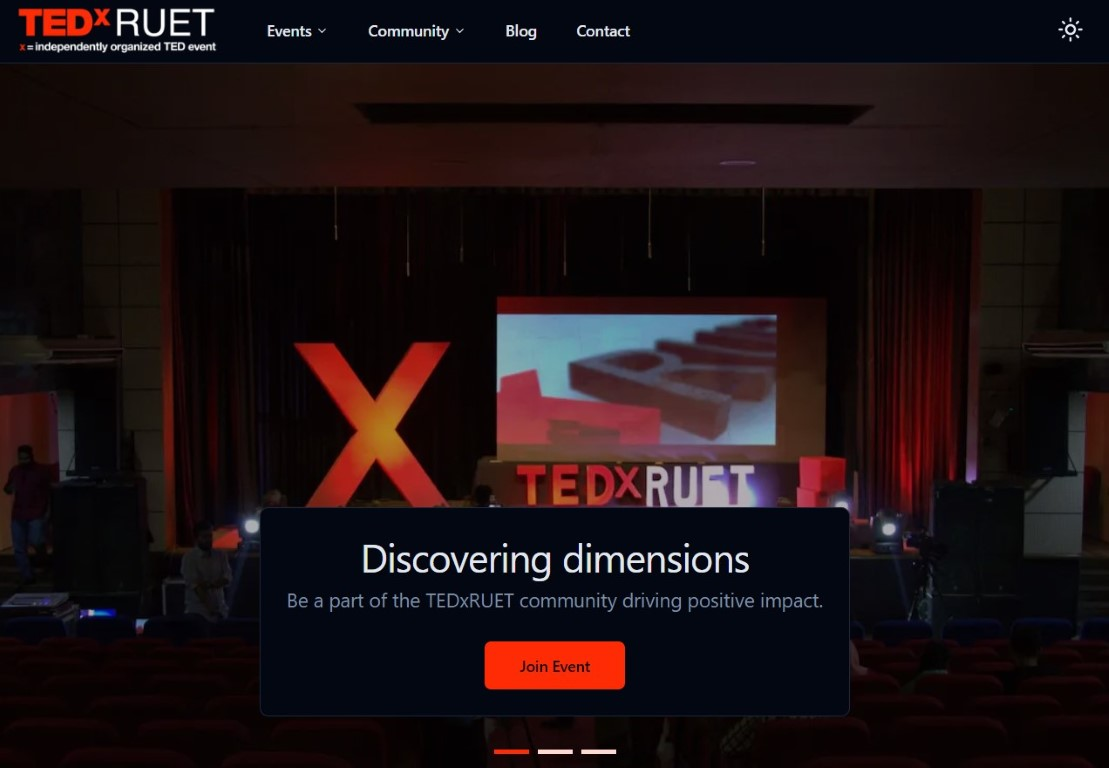
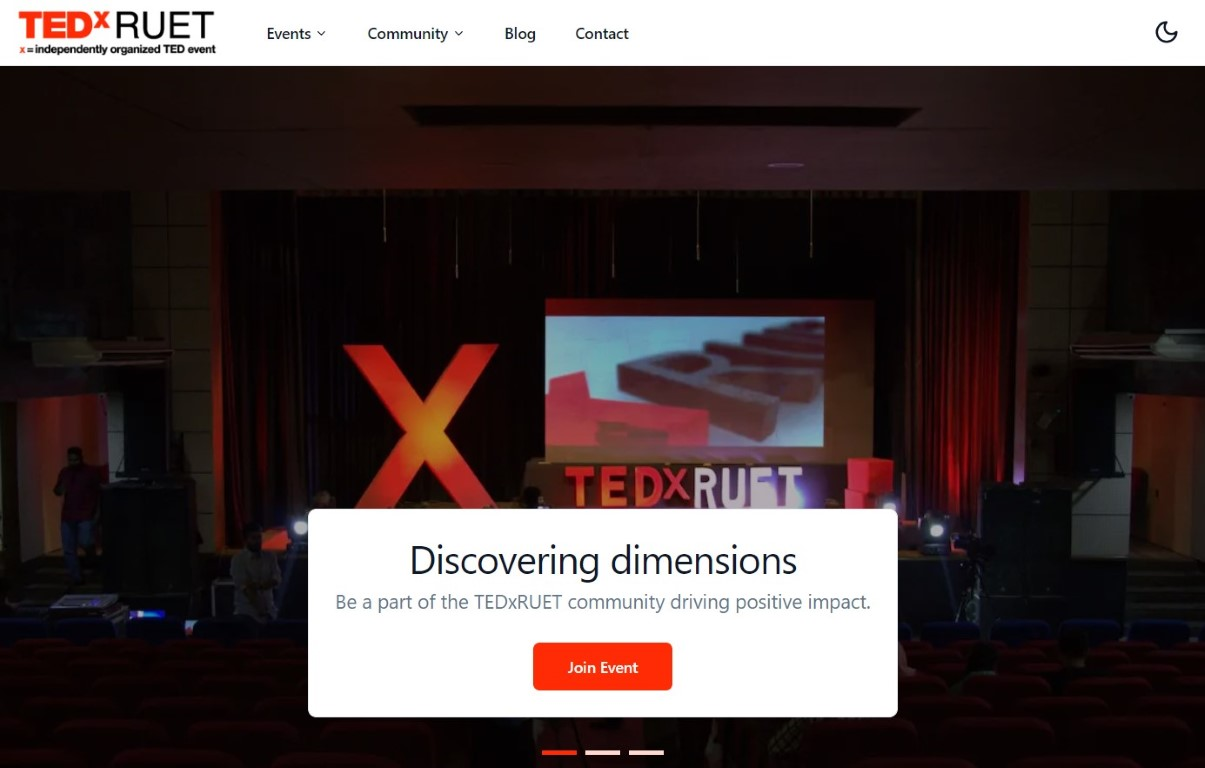
footer

diff --git a/src/components/ThemeToggle.tsx b/src/components/ThemeToggle.tsx
@@ -5,7 +5,7 @@ import { cn } from "@/lib/utils";
 
 type Theme = "light" | "dark" | "system";
 
-const DropdownMenu = () => {
+const ThemeToggle = () => {
   const [isOpen, setIsOpen] = useState(false);
   const ref = createRef<HTMLDivElement>();
 
@@ -68,8 +68,9 @@ const DropdownMenu = () => {
           type="button"
           className={cn(
             buttonVariants({
-              variant: isOpen ? "secondary" : "ghost",
+              variant: "outline",
               size: "icon",
+              class: "items-center gap-2",
             }),
           )}
           onClick={toggleDropdown}
@@ -78,7 +79,7 @@ const DropdownMenu = () => {
         </button>
       </div>
       {isOpen && (
-        <div className="absolute mt-1 right-0 z-10 w-32 rounded-lg shadow bg-background border">
+        <div className="absolute mt-1 right-0 bottom-10 z-10 w-32 rounded-lg shadow bg-background border">
           <ul
             className="p-1"
             role="menu"
@@ -99,9 +100,9 @@ const DropdownMenu = () => {
                 >
                   {
                     {
-                      light: <SunIcon className="w-4 h-4 mr-1" />,
-                      dark: <MoonIcon className="w-4 h-4 mr-1" />,
-                      system: <SystemIcon className="w-4 h-4 mr-1" />,
+                      light: <SunIcon className="mr-1" />,
+                      dark: <MoonIcon className="mr-1" />,
+                      system: <SystemIcon className="mr-1" />,
                     }[option.id as Theme]
                   }{" "}
                   {option.label}
@@ -115,14 +116,14 @@ const DropdownMenu = () => {
   );
 };
 
-export default DropdownMenu;
+export default ThemeToggle;
 
 const SunIcon = ({ className }: { className?: string }) => (
   <svg
     viewBox="0 0 15 15"
     fill="none"
     xmlns="http://www.w3.org/2000/svg"
-    className={cn("w-5 h-5", className)}
+    className={cn("w-4 h-4", className)}
   >
     <path
       d="M7.5 0C7.77614 0 8 0.223858 8 0.5V2.5C8 2.77614 7.77614 3 7.5 3C7.22386 3 7 2.77614 7 2.5V0.5C7 0.223858 7.22386 0 7.5 0ZM2.1967 2.1967C2.39196 2.00144 2.70854 2.00144 2.90381 2.1967L4.31802 3.61091C4.51328 3.80617 4.51328 4.12276 4.31802 4.31802C4.12276 4.51328 3.80617 4.51328 3.61091 4.31802L2.1967 2.90381C2.00144 2.70854 2.00144 2.39196 2.1967 2.1967ZM0.5 7C0.223858 7 0 7.22386 0 7.5C0 7.77614 0.223858 8 0.5 8H2.5C2.77614 8 3 7.77614 3 7.5C3 7.22386 2.77614 7 2.5 7H0.5ZM2.1967 12.8033C2.00144 12.608 2.00144 12.2915 2.1967 12.0962L3.61091 10.682C3.80617 10.4867 4.12276 10.4867 4.31802 10.682C4.51328 10.8772 4.51328 11.1938 4.31802 11.3891L2.90381 12.8033C2.70854 12.9986 2.39196 12.9986 2.1967 12.8033ZM12.5 7C12.2239 7 12 7.22386 12 7.5C12 7.77614 12.2239 8 12.5 8H14.5C14.7761 8 15 7.77614 15 7.5C15 7.22386 14.7761 7 14.5 7H12.5ZM10.682 4.31802C10.4867 4.12276 10.4867 3.80617 10.682 3.61091L12.0962 2.1967C12.2915 2.00144 12.608 2.00144 12.8033 2.1967C12.9986 2.39196 12.9986 2.70854 12.8033 2.90381L11.3891 4.31802C11.1938 4.51328 10.8772 4.51328 10.682 4.31802ZM8 12.5C8 12.2239 7.77614 12 7.5 12C7.22386 12 7 12.2239 7 12.5V14.5C7 14.7761 7.22386 15 7.5 15C7.77614 15 8 14.7761 8 14.5V12.5ZM10.682 10.682C10.8772 10.4867 11.1938 10.4867 11.3891 10.682L12.8033 12.0962C12.9986 12.2915 12.9986 12.608 12.8033 12.8033C12.608 12.9986 12.2915 12.9986 12.0962 12.8033L10.682 11.3891C10.4867 11.1938 10.4867 10.8772 10.682 10.682ZM5.5 7.5C5.5 6.39543 6.39543 5.5 7.5 5.5C8.60457 5.5 9.5 6.39543 9.5 7.5C9.5 8.60457 8.60457 9.5 7.5 9.5C6.39543 9.5 5.5 8.60457 5.5 7.5ZM7.5 4.5C5.84315 4.5 4.5 5.84315 4.5 7.5C4.5 9.15685 5.84315 10.5 7.5 10.5C9.15685 10.5 10.5 9.15685 10.5 7.5C10.5 5.84315 9.15685 4.5 7.5 4.5Z"

diff --git a/src/content/config.ts b/src/content/config.ts
@@ -6,7 +6,17 @@ const projectsCollection = defineCollection({
     title: z.string(),
     description: z.string(),
     date: z.date(),
-    image: z.string(),
+    img: z.string(),
+    tags: z.array(z.string()),
+  }),
+});
+
+const articlesCollection = defineCollection({
+  type: "content",
+  schema: z.object({
+    title: z.string(),
+    description: z.string(),
+    date: z.date(),
     tags: z.array(z.string()),
   }),
 });

diff --git a/src/styles/globals.css b/src/styles/globals.css
@@ -58,10 +58,6 @@
   }
 }
 
-.dark {
-  color-scheme: dark;
-}
-
 .font-cursive {
   font-family: "Cookie", cursive;
 }
